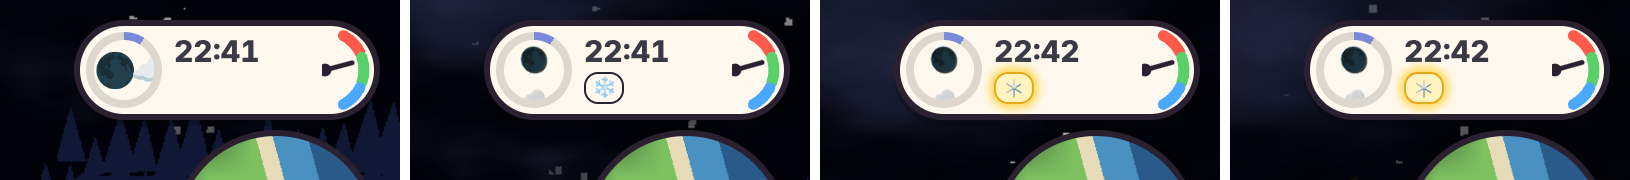
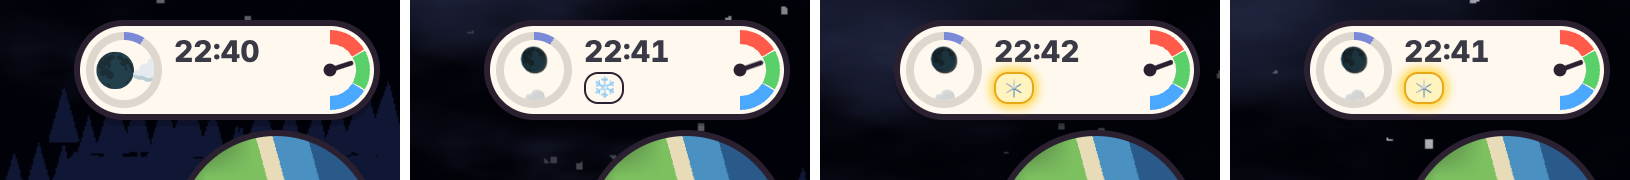
wip(newgame): v5.23 dial = a full half ring hugging the box's round end (designer sketch)
Claude-Session: https://claude.ai/code/session_01GPWeNez232vT9ersFNk7wt

diff --git a/newgame/src/main.js b/newgame/src/main.js
@@ -2901,9 +2901,9 @@ function tempTick() {
   TEMPV += (Math.max(-1, Math.min(1, t)) - TEMPV) * .25;
 }
 let tempK = '';
-function tempHud() { const el = $('hTemp'), gz = $('hGauge') || el; if (!gz.querySelector('svg')) { const cx = 1.5, cy = 22, r = 19.5, P = a => [cx + r * Math.cos(a * Math.PI / 180), cy - r * Math.sin(a * Math.PI / 180)].map(v => v.toFixed(1)).join(' '), arc = (a0, a1, c) => `<path d="M${P(a0)} A${r} ${r} 0 0 1 ${P(a1)}" stroke="${c}" stroke-width="5.5" stroke-linecap="round" fill="none"/>`;   /* v5.23 (designer) the dial stands up and follows the box's round right edge: 🔥 red at the top · green · ❄ blue at the bottom */
-    gz.innerHTML = `<svg viewBox="0 0 26 44" width="26" height="44">${arc(62, 27, '#ff5a4a')}${arc(19, -19, '#5ad06a')}${arc(-27, -62, '#4aa8ff')}<g id="tNeedle"><line x1="${cx}" y1="${cy}" x2="${cx + 14}" y2="${cy}" stroke="#2a2030" stroke-width="2.4" stroke-linecap="round"/></g><circle cx="${cx}" cy="${cy}" r="3.2" fill="#2a2030"/></svg>` }
-  const d = Math.round(TEMPV * 80); if (d + '' === tempK) return; tempK = d + ''; el.querySelector('#tNeedle').setAttribute('transform', `rotate(${Math.max(-62, Math.min(62, -d * .78)).toFixed(1)} 1.5 22)`); el.classList.toggle('cold', TEMPV < D.TEMP.coldAt); el.classList.toggle('hot', TEMPV > D.TEMP.hotAt) }
+function tempHud() { const el = $('hTemp'), gz = $('hGauge') || el; if (!gz.querySelector('svg')) { const cx = 4, cy = 22, r = 16.5, P = a => [cx + r * Math.cos(a * Math.PI / 180), cy - r * Math.sin(a * Math.PI / 180)].map(v => v.toFixed(1)).join(' '), arc = (a0, a1, c) => `<path d="M${P(a0)} A${r} ${r} 0 0 1 ${P(a1)}" stroke="${c}" stroke-width="7" stroke-linecap="butt" fill="none"/>`;   /* v5.23 (designer) the dial stands up and follows the box's round right edge: 🔥 red at the top · green · ❄ blue at the bottom */
+    gz.innerHTML = `<svg viewBox="0 0 26 44" width="26" height="44">${arc(90, 31, '#ff5a4a')}${arc(29, -29, '#5ad06a')}${arc(-31, -90, '#4aa8ff')}<g id="tNeedle"><line x1="${cx}" y1="${cy}" x2="${cx + 11}" y2="${cy}" stroke="#2a2030" stroke-width="2.4" stroke-linecap="round"/></g><circle cx="${cx}" cy="${cy}" r="3.2" fill="#2a2030"/></svg>` }
+  const d = Math.round(TEMPV * 80); if (d + '' === tempK) return; tempK = d + ''; el.querySelector('#tNeedle').setAttribute('transform', `rotate(${Math.max(-80, Math.min(80, -d)).toFixed(1)} 4 22)`); el.classList.toggle('cold', TEMPV < D.TEMP.coldAt); el.classList.toggle('hot', TEMPV > D.TEMP.hotAt) }
 /* ---------- v1.4.4 boss bar: chiefs / big monsters show their name + HP at the top while you fight them ---------- */
 let bossK = '';
 function bossHud() { const M = LOCK && (LOCK.chief || LOCK.T.hp >= 100 || /King|Chief/.test(LOCK.kind)) ? LOCK : null, el = $('boss');
